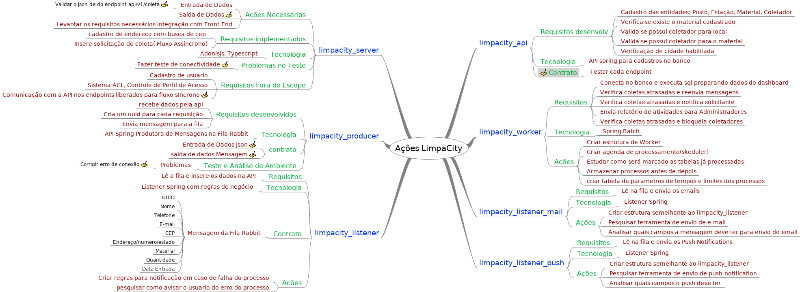
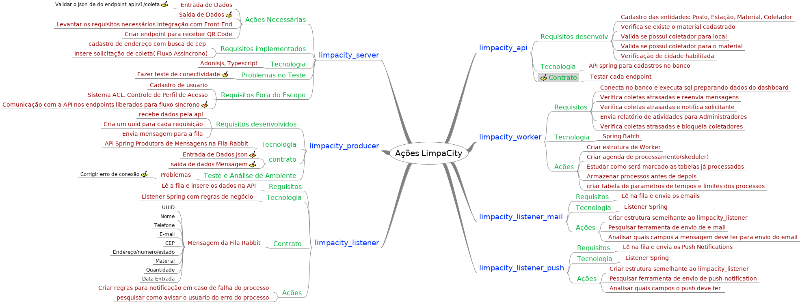
feat: up

diff --git a/app/Controllers/Http/QrCodeController.ts b/app/Controllers/Http/QrCodeController.ts
@@ -1,0 +1,54 @@
+import { HttpContextContract } from '@ioc:Adonis/Core/HttpContext'
+const axios = require('axios')
+import Env from '@ioc:Adonis/Core/Env'
+// const Business = require('../../Business/ConsultasCep')
+// const buscaCep = require('busca-cep')
+// const enderecoApirUrl = Env.get('ENDERECO_URL')
+const producerUrl = Env.get('PRODUCER_URL')
+
+export interface IQrCode {
+  uuid: string,
+  observacao: string,
+}
+
+export default class QrCodeController {
+
+  /**
+   * @swagger
+   * /api/qrcode:
+   *   post:
+   *     description: recebe o código uuid para cadastro de coleta
+   *     tags:
+   *       - QR Code
+   *     parameters:
+   *       - name: user
+   *         description: User object
+   *         in:  body
+   *         required: true
+   *         type: string
+   *         schema:
+   *           $ref: '#/definitions/SolicitaColeta'
+   *     responses:
+   *       200:
+   *         description: Mensagem enviada com sucesso
+   *         example:
+   *           message: Solicitação enviada, aguarde
+   */
+
+  public async store({ request }: HttpContextContract) {
+    const data:IQrCode = request.only([
+      'uuid',
+      'observacao',
+    ]);
+
+    // var qrCodeColeta: IQrCode;
+    try {
+      // qrCodeColeta = await axios.post(producerUrl, data)
+      console.log(data)
+      // return solicitaColeta.data
+    } catch (error) {
+      error.Request
+    }
+    // return solicitaColeta
+  }
+}

diff --git a/docs/limpacity_mapamental.mm b/docs/limpacity_mapamental.mm
@@ -3,7 +3,7 @@
 <node COLOR="#000000" CREATED="1617327561613" ID="ID_860381294" MODIFIED="1617327597794" TEXT="Api Gest&#xe3;o de Res&#xed;duos">
 <font NAME="SansSerif" SIZE="20"/>
 <hook NAME="accessories/plugins/AutomaticLayout.properties"/>
-<node COLOR="#0033ff" CREATED="1617327664827" ID="ID_1798638459" MODIFIED="1617624716471" POSITION="left" TEXT="Mensageria">
+<node COLOR="#0033ff" CREATED="1617327664827" ID="ID_1798638459" MODIFIED="1617624716471" POSITION="right" TEXT="Mensageria">
 <edge STYLE="sharp_bezier" WIDTH="8"/>
 <font NAME="SansSerif" SIZE="18"/>
 <node COLOR="#00b439" CREATED="1617327672869" ID="ID_1915300314" MODIFIED="1617327677623" TEXT="Rabbit MQ">
@@ -17,15 +17,7 @@
 </node>
 </node>
 </node>
-<node COLOR="#0033ff" CREATED="1617332121921" ID="ID_1386907597" MODIFIED="1617332126878" POSITION="right" TEXT="Banco de Dados">
-<edge STYLE="sharp_bezier" WIDTH="8"/>
-<font NAME="SansSerif" SIZE="18"/>
-<node COLOR="#00b439" CREATED="1617332128134" ID="ID_1749434" MODIFIED="1617332131826" TEXT="Mysql">
-<edge STYLE="bezier" WIDTH="thin"/>
-<font NAME="SansSerif" SIZE="16"/>
-</node>
-</node>
-<node COLOR="#0033ff" CREATED="1617334462613" ID="ID_1002715141" MODIFIED="1617624720819" POSITION="left" TEXT="Tipo de Processos">
+<node COLOR="#0033ff" CREATED="1617334462613" ID="ID_1002715141" MODIFIED="1617624720819" POSITION="right" TEXT="Tipo de Processos">
 <edge STYLE="sharp_bezier" WIDTH="8"/>
 <font NAME="SansSerif" SIZE="18"/>
 <node COLOR="#00b439" CREATED="1617334487606" ID="ID_1497939162" MODIFIED="1617334491520" TEXT="Ass&#xed;ncrono">
@@ -33,6 +25,14 @@
 <font NAME="SansSerif" SIZE="16"/>
 </node>
 <node COLOR="#00b439" CREATED="1617334493382" ID="ID_494452381" MODIFIED="1617334496543" TEXT="S&#xed;ncrono">
+<edge STYLE="bezier" WIDTH="thin"/>
+<font NAME="SansSerif" SIZE="16"/>
+</node>
+</node>
+<node COLOR="#0033ff" CREATED="1617332121921" ID="ID_1386907597" MODIFIED="1617332126878" POSITION="right" TEXT="Banco de Dados">
+<edge STYLE="sharp_bezier" WIDTH="8"/>
+<font NAME="SansSerif" SIZE="18"/>
+<node COLOR="#00b439" CREATED="1617332128134" ID="ID_1749434" MODIFIED="1617332131826" TEXT="Mysql">
 <edge STYLE="bezier" WIDTH="thin"/>
 <font NAME="SansSerif" SIZE="16"/>
 </node>
@@ -152,9 +152,6 @@
 <node COLOR="#111111" CREATED="1617922928748" ID="ID_1242734039" MODIFIED="1617923090764" TEXT="saida de dados Mensagem"/>
 <node COLOR="#111111" CREATED="1617923070210" ID="ID_33924410" MODIFIED="1617923080575" TEXT="Entrada de Dados Json"/>
 </node>
-<node COLOR="#990000" CREATED="1617923145640" ID="ID_224894738" MODIFIED="1617923151994" TEXT="Infraestrutura">
-<font NAME="SansSerif" SIZE="14"/>
-</node>
 </node>
 <node COLOR="#00b439" CREATED="1617385168928" ID="ID_1209219111" MODIFIED="1617669604010" TEXT="limpacity_listener">
 <edge STYLE="bezier" WIDTH="thin"/>
@@ -235,17 +232,30 @@
 <font NAME="SansSerif" SIZE="16"/>
 <node COLOR="#990000" CREATED="1617622996673" ID="ID_1390775626" MODIFIED="1617623002361" TEXT="Requisitos">
 <font NAME="SansSerif" SIZE="14"/>
-<node COLOR="#111111" CREATED="1617622885680" ID="ID_1825803125" MODIFIED="1617623227239" TEXT="cadastro de endere&#xe7;o com busca de cep ">
+<node COLOR="#111111" CREATED="1617622885680" ID="ID_1825803125" MODIFIED="1621110416259" TEXT="cadastro de endere&#xe7;o com busca de cep ">
 <font NAME="SansSerif" SIZE="12"/>
+<icon BUILTIN="button_ok"/>
 </node>
 <node COLOR="#111111" CREATED="1617623389057" ID="ID_641814323" MODIFIED="1617624784442" TEXT="Insere solicita&#xe7;&#xe3;o de coleta( Fluxo Ass&#xed;ncrono)"/>
 <node COLOR="#111111" CREATED="1617623589403" ID="ID_1680761404" MODIFIED="1617623667257" TEXT="Comunica&#xe7;&#xe3;o com a API nos endpoints liberados para fluxo s&#xed;ncrono"/>
-<node COLOR="#111111" CREATED="1617623675101" ID="ID_1198140502" MODIFIED="1617623717599" TEXT="Cadastro de usuario"/>
-<node COLOR="#111111" CREATED="1617623719568" ID="ID_1607898888" MODIFIED="1617623744932" TEXT="Sistema ACL, Controle de Perfil de Acesso"/>
+<node COLOR="#111111" CREATED="1617623675101" ID="ID_1198140502" MODIFIED="1621111063785" TEXT="Cadastro de usuario">
+<icon BUILTIN="button_ok"/>
+</node>
+<node COLOR="#111111" CREATED="1617623719568" ID="ID_1607898888" MODIFIED="1621111067361" TEXT="Sistema ACL, Controle de Perfil de Acesso">
+<icon BUILTIN="button_ok"/>
+</node>
+<node COLOR="#111111" CREATED="1621093170966" ID="ID_1696799322" MODIFIED="1621109881399" TEXT="Aceite das coletas ">
+<icon BUILTIN="button_ok"/>
+</node>
+<node COLOR="#111111" CREATED="1617623389057" ID="ID_605611711" MODIFIED="1621109858988" TEXT="Insere solicita&#xe7;&#xe3;o de coleta baseado no QRCode">
+<icon BUILTIN="button_ok"/>
+</node>
 </node>
 <node COLOR="#990000" CREATED="1617623004478" ID="ID_821103977" MODIFIED="1617623251056" TEXT="Tecnologia">
 <font NAME="SansSerif" SIZE="14"/>
-<node COLOR="#111111" CREATED="1617623252856" ID="ID_1654422844" MODIFIED="1617623377222" TEXT="Adonisjs, Typescript"/>
+<node COLOR="#111111" CREATED="1617623252856" ID="ID_1654422844" MODIFIED="1621111070333" TEXT="Adonisjs, Typescript">
+<icon BUILTIN="button_ok"/>
+</node>
 </node>
 </node>
 </node>

diff --git a/docs/Ações LimpaCity.mm b/docs/Ações LimpaCity.mm
@@ -79,6 +79,9 @@
 <node COLOR="#990000" CREATED="1618089629355" ID="ID_341121537" MODIFIED="1618089659803" TEXT="Levantar os requisitos necess&#xe1;rios integra&#xe7;&#xe3;o com Front-End">
 <font NAME="SansSerif" SIZE="14"/>
 </node>
+<node COLOR="#990000" CREATED="1620691022056" ID="ID_546334486" MODIFIED="1620691045814" TEXT="Criar endpoint para receber QR Code">
+<font NAME="SansSerif" SIZE="14"/>
+</node>
 </node>
 <node COLOR="#00b439" CREATED="1617622996673" ID="ID_1390775626" MODIFIED="1618089684271" TEXT="Requisitos implementados">
 <edge STYLE="bezier" WIDTH="thin"/>
@@ -308,7 +311,7 @@
 <font NAME="SansSerif" SIZE="14"/>
 </node>
 </node>
-<node COLOR="#00b439" CREATED="1617931530007" ID="ID_163025079" MODIFIED="1618163353926" TEXT="Contrato">
+<node COLOR="#00b439" CREATED="1617931530007" ID="ID_163025079" MODIFIED="1621078701232" TEXT="Contrato">
 <richcontent TYPE="NOTE"><html>
   <head>
     

diff --git a/README.md b/README.md
@@ -1,0 +1,5 @@
+# limpacicy_server
+
+O Server é a interface responsável pela comunicação entre os integradores externos e entre os microserviços do limpacity.
+
+Este sistema prepara as informações para o front-end, reunindo os dados do banco e das APIs. 
